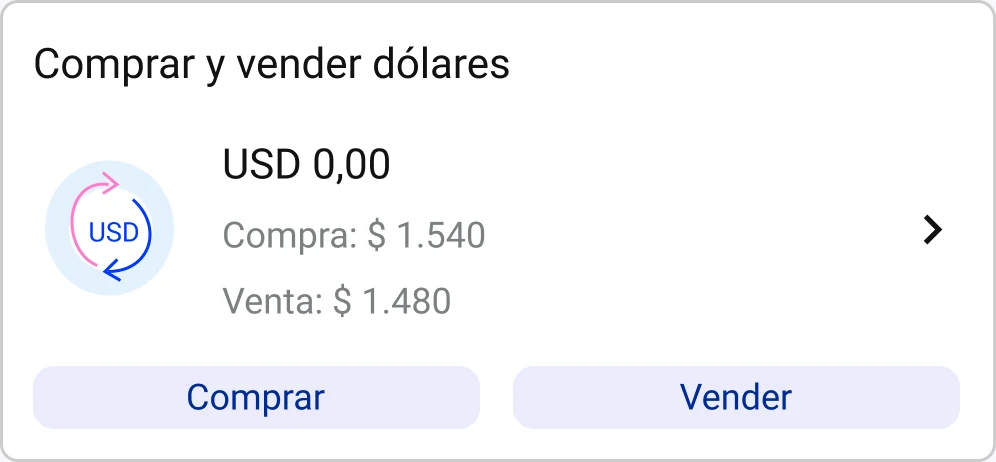
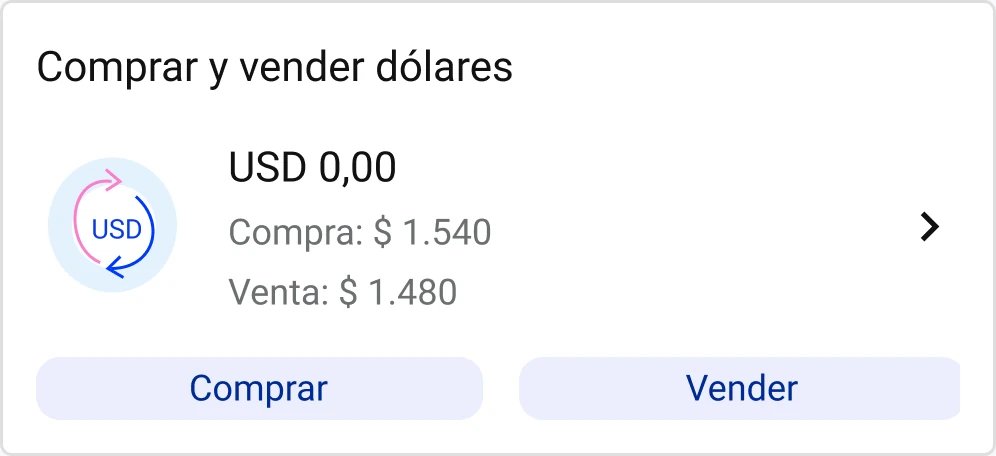
Intersticial de bienvenida con Motion, cards de Inversiones y numeración de Figma
- Intersticial al encender el prototipo (Figma frame 01), con entrada en cascada
- Cards de Inversiones reexportadas con textos y medidas actuales
- Atajos ?pantalla= alineados con la numeración 01–13 de Figma

diff --git a/src/screens/Intersticial.jsx b/src/screens/Intersticial.jsx
@@ -1,0 +1,82 @@
+import { useEffect, useRef } from 'react';
+import { motion } from 'framer-motion';
+import { Button } from '../components/ui.jsx';
+
+// Intersticial de bienvenida según Figma "Dialog" (99:24255, frame 01), 327 × 585.
+// Fondo (degradé, elipses y foto) exportado de Figma; textos, íconos y botones en código.
+// Posiciones en coordenadas del diseño (px dentro del diálogo) para respetarlo tal cual.
+// Tipografías del diseño: Titillium Web (título) e Inter (textos).
+const IMG = `${import.meta.env.BASE_URL}intersticial/`;
+const SPRING = { type: 'spring', stiffness: 320, damping: 30, mass: 0.9 };
+const OUT = [0.3, 0, 1, 1];
+const IN = [0, 0, 0, 1];
+
+// Entrada en cascada del contenido (después de que el diálogo se asienta).
+const item = (i) => ({
+  initial: { opacity: 0, y: 12 },
+  animate: { opacity: 1, y: 0, transition: { duration: 0.32, ease: IN, delay: 0.28 + i * 0.06 } },
+});
+
+const BENEFICIOS = [
+  ['ganancia', 'Calculá tu ganancia estimada'],
+  ['plazo', 'Elegí el plazo que prefieras'],
+  ['seguro', 'Simulá sin invertir tu dinero'],
+];
+
+export function Intersticial({ onClose, onSimular }) {
+  const ref = useRef(null);
+  useEffect(() => { ref.current?.focus(); }, []);
+  return (
+    // La raíz es motion para que AnimatePresence desmonte la capa al terminar la salida.
+    <motion.div
+      className="inter-layer" onKeyDown={(e) => { if (e.key === 'Escape') onClose(); }}
+      initial={{ opacity: 1 }} exit={{ opacity: 0, transition: { duration: 0.2, ease: OUT } }}
+    >
+      <motion.div
+        className="inter-scrim" onClick={onClose}
+        initial={{ opacity: 0 }} animate={{ opacity: 1, transition: { duration: 0.26, ease: IN } }}
+      />
+      <motion.div
+        ref={ref} tabIndex={-1} role="dialog" aria-modal="true" aria-labelledby="inter-titulo" aria-describedby="inter-desc"
+        className="inter-dialog"
+        initial={{ opacity: 0, y: 48, scale: 0.94 }}
+        animate={{ opacity: 1, y: 0, scale: 1, transition: { ...SPRING, opacity: { duration: 0.2, ease: IN } } }}
+        exit={{ opacity: 0, y: 24, scale: 0.98, transition: { duration: 0.18, ease: OUT } }}
+      >
+        <motion.img
+          className="inter-fondo" src={`${IMG}fondo.webp`} alt="" draggable={false}
+          initial={{ scale: 1.08 }} animate={{ scale: 1, transition: { duration: 0.9, ease: IN } }}
+        />
+
+        <motion.button
+          className="inter-cerrar" onClick={onClose} aria-label="Cerrar"
+          initial={{ opacity: 0, scale: 0.6 }} animate={{ opacity: 1, scale: 1, transition: { ...SPRING, delay: 0.35 } }}
+          whileTap={{ scale: 0.9 }}
+        >
+          <img src={`${IMG}cerrar.svg`} width="16" height="16" alt="" />
+        </motion.button>
+
+        <motion.h2 id="inter-titulo" className="inter-titulo" {...item(0)}>
+          Descubrí <span>cuánto podés ganar</span>
+        </motion.h2>
+        <motion.p id="inter-desc" className="inter-desc" {...item(1)}>
+          Simulá un Plazo Fijo y conocé el rendimiento estimado de tus ahorros antes de invertir.
+        </motion.p>
+
+        <ul className="inter-lista">
+          {BENEFICIOS.map(([icon, texto], i) => (
+            <motion.li key={icon} className="inter-item" style={{ top: 317 + i * 42 }} {...item(2 + i)}>
+              <span className="inter-icono"><img src={`${IMG}${icon}.svg`} width="24" height="24" alt="" /></span>
+              <span>{texto}</span>
+            </motion.li>
+          ))}
+        </ul>
+
+        <motion.div className="inter-acciones" {...item(6)}>
+          <Button onClick={onSimular}>Simular plazo fijo</Button>
+          <Button variant="secondary" onClick={onClose}>Ahora no</Button>
+        </motion.div>
+      </motion.div>
+    </motion.div>
+  );
+}

diff --git a/src/jumps.js b/src/jumps.js
@@ -3,17 +3,19 @@ const SIM = ['inicio', 'plazoFijo', 'elegirTipo', 'simular'];
 const base = { tipo: 'trad-ars', tipoDraft: 'trad-ars', montoTexto: '1000', dias: 30, montoTocado: true, escenario: { banco: 'ok', red: 'ok' } };
 
 export const JUMPS = [
-  ['Flujo principal', [
-    ['00', '00 · Inicio', { stack: ['inicio'], patch: {} }],
-    ['IN', 'Inversiones', { stack: ['inicio', 'inversiones'], patch: {} }],
-    ['01', '01 · Plazo fijo', { stack: ['inicio', 'plazoFijo'], patch: { montoTexto: '', dias: null, inversiones: [] } }],
-    ['02', '02 · Elegir tipo', { stack: ['inicio', 'plazoFijo', 'elegirTipo'], patch: { tipoDraft: null } }],
-    ['03', '03 · Simular (vacío)', { stack: SIM, patch: { ...base, montoTexto: '', dias: null, montoTocado: false } }],
-    ['05', '05 · Simular (resultado)', { stack: SIM, patch: base }],
-    ['06', '06 · Cambiar tipo (hoja)', { stack: SIM, patch: base, sheet: 'tipo' }],
-    ['07', '07 · Elegir cuenta', { stack: [...SIM, 'elegirCuenta'], patch: { ...base, cuenta: 'ca-3643' } }],
-    ['08', '08 · Revisar datos', { stack: [...SIM, 'elegirCuenta', 'revisar'], patch: { ...base, cuenta: 'ca-3643' } }],
-    ['09', '09 · Plazo fijo constituido', { stack: ['inicio', 'plazoFijo', 'resultado'], patch: { ...base, cuenta: 'ca-3643', resultado: 'ok', demoInversion: true } }],
+  ['Flujo principal (numeración de Figma)', [
+    ['01', '01 · Inicio · Intersticial de bienvenida', { stack: ['inicio'], patch: {}, sheet: 'intersticial' }],
+    ['02', '02 · Inicio', { stack: ['inicio'], patch: {} }],
+    ['03', '03 · Inversiones', { stack: ['inicio', 'inversiones'], patch: {} }],
+    ['04', '04 · Plazo fijo · Sin inversiones', { stack: ['inicio', 'plazoFijo'], patch: { montoTexto: '', dias: null, inversiones: [] } }],
+    ['05', '05 · Elegir tipo de plazo fijo', { stack: ['inicio', 'plazoFijo', 'elegirTipo'], patch: { tipoDraft: null } }],
+    ['06', '06 · Simular · Vacío', { stack: SIM, patch: { ...base, montoTexto: '', dias: null, montoTocado: false } }],
+    ['08', '08 · Simular · Resultado', { stack: SIM, patch: base }],
+    ['09', '09 · Cambiar tipo (hoja inferior)', { stack: SIM, patch: base, sheet: 'tipo' }],
+    ['10', '10 · Elegir cuenta', { stack: [...SIM, 'elegirCuenta'], patch: { ...base, cuenta: 'ca-3643' } }],
+    ['11', '11 · Revisar datos', { stack: [...SIM, 'elegirCuenta', 'revisar'], patch: { ...base, cuenta: 'ca-3643' } }],
+    ['12', '12 · Plazo fijo constituido', { stack: ['inicio', 'plazoFijo', 'resultado'], patch: { ...base, cuenta: 'ca-3643', resultado: 'ok', demoInversion: true } }],
+    ['13', '13 · Plazo fijo · Con inversiones', { stack: ['inicio', 'plazoFijo'], patch: { ...base, cuenta: 'ca-3643', resultado: 'ok', demoInversion: true } }],
   ]],
   ['Estados alternativos', [
     ['A', 'A · Monto menor al mínimo', { stack: SIM, patch: { ...base, montoTexto: '500', dias: null } }],

diff --git a/src/styles/app.css b/src/styles/app.css
@@ -314,3 +314,19 @@ button.home-service .home-img { width: 100%; }
 .tab-in { animation: tab-in 260ms cubic-bezier(0, 0, 0, 1) both; }
 @keyframes tab-in { from { opacity: 0; transform: scale(.98); } to { opacity: 1; transform: none; } }
 @media (prefers-reduced-motion: reduce) { .tab-in { animation: none; } .inv-content, .inv-skel { transition: none; } }
+
+/* ---------- Intersticial de bienvenida (Figma 99:23782) ---------- */
+.inter-layer { position: absolute; inset: 0; z-index: 30; display: grid; place-items: center; }
+.inter-scrim { position: absolute; inset: 0; background: var(--color-bg-scrim); }
+.inter-dialog { position: relative; width: 327px; height: 585px; border-radius: var(--radius-lg); overflow: hidden; outline: none; background: var(--color-bg-brand); box-shadow: var(--elevation-4); }
+.inter-fondo { position: absolute; inset: 0; width: 100%; height: 100%; transform-origin: 50% 0; pointer-events: none; }
+.inter-cerrar { position: absolute; left: 284px; top: 11px; width: 32px; height: 32px; border-radius: var(--radius-full); background: var(--color-bg-surface); display: grid; place-items: center; }
+.inter-cerrar::before { content: ''; position: absolute; inset: -8px; } /* área táctil de 48 dp */
+.inter-titulo { position: absolute; left: 29px; top: 153px; width: 304px; margin: 0; font-family: 'Titillium Web', var(--font-family-base, Roboto), sans-serif; font-weight: 700; font-size: 36px; line-height: 40px; color: var(--color-text-inverse); }
+.inter-titulo span { color: var(--color-icon-accent); }
+.inter-desc, .inter-item { font-family: 'Inter', Roboto, sans-serif; font-weight: 400; letter-spacing: .1px; color: var(--color-text-inverse); }
+.inter-desc { position: absolute; left: 29px; top: 241px; width: 304px; margin: 0; font-size: 16px; line-height: 20px; }
+.inter-lista { list-style: none; margin: 0; padding: 0; }
+.inter-item { position: absolute; left: 29px; width: 304px; height: 40px; display: flex; align-items: center; gap: 17px; font-size: 14px; line-height: 20px; }
+.inter-icono { width: 40px; height: 40px; display: grid; place-items: center; flex: none; }
+.inter-acciones { position: absolute; left: 21px; top: 457px; width: 285px; display: flex; flex-direction: column; gap: var(--spacing-xs); }

diff --git a/src/screens/Inversiones.jsx b/src/screens/Inversiones.jsx
@@ -13,9 +13,9 @@ const CARGA_MS = 1400;
 
 // Formas del esqueleto en coordenadas de Figma (px de la card de 332 de ancho).
 const ESQUELETOS = {
-  dolares: { h: 154, partes: [[11, 13, 150, 14], [11, 51, 52, 52, 'circ'], [79, 55, 70, 16], [79, 80, 90, 11], [79, 98, 90, 11], [11, 122, 149, 21], [171, 122, 149, 21]] },
-  plazo: { h: 141, partes: [[11, 13, 70, 14], [11, 44, 52, 52, 'circ'], [72, 56, 220, 11], [72, 74, 150, 11], [11, 109, 149, 21], [171, 109, 149, 21]] },
-  fondos: { h: 141, partes: [[11, 13, 100, 14], [11, 43, 54, 54, 'circ'], [74, 56, 218, 11], [74, 74, 120, 11], [11, 109, 309, 21]] },
+  dolares: { h: 152, partes: [[12, 13, 150, 14], [12, 50, 52, 52, 'circ'], [79, 54, 70, 16], [79, 79, 90, 11], [79, 97, 90, 11], [12, 119, 149, 21], [173, 119, 149, 21]] },
+  plazo: { h: 139, partes: [[12, 13, 70, 14], [12, 43, 52, 52, 'circ'], [72, 55, 220, 11], [72, 73, 150, 11], [12, 106, 149, 21], [173, 106, 149, 21]] },
+  fondos: { h: 139, partes: [[12, 13, 100, 14], [12, 42, 54, 54, 'circ'], [74, 55, 218, 11], [74, 73, 120, 11], [12, 106, 309, 21]] },
 };
 
 function Esqueleto({ forma }) {
@@ -63,10 +63,10 @@ export function Inversiones({ nav }) {
           <div
             className="inv-card inv-link" role="button" tabIndex={listo ? 0 : -1} onClick={abrirPlazoFijo}
             onKeyDown={(e) => { if (e.key === 'Enter' || e.key === ' ') { e.preventDefault(); abrirPlazoFijo(); } }}
-            aria-label="Plazo fijo. Hacé rendir tus ahorros, descubrí cuánto podrías ganar con un plazo fijo."
+            aria-label="Plazo fijo. Simulá un plazo fijo y conocé cuánto podrías ganar antes de invertir."
           >
             <img draggable={false} src={`${IMG}plazo-fijo.webp`} alt="" />
-            <button className="inv-hit" style={{ left: '3.31%', top: '77.3%', width: '44.88%', height: '14.9%' }} onClick={simular} tabIndex={listo ? 0 : -1}>
+            <button className="inv-hit" style={{ left: '3.61%', top: '76.26%', width: '44.88%', height: '15.11%' }} onClick={simular} tabIndex={listo ? 0 : -1}>
               <span className="sr-only">Simular</span>
             </button>
           </div>

diff --git a/src/screens/sheets.jsx b/src/screens/sheets.jsx
@@ -1,5 +1,6 @@
 import { useState } from 'react';
 import { AnimatePresence } from 'framer-motion';
+import { Intersticial } from './Intersticial.jsx';
 import { BottomSheet, Button, ListOption, Alert, DataRow, Card, Icon } from '../components/ui.jsx';
 import { TIPOS, dinero, fecha, fechaLarga, vencimiento, track } from '../logic.js';
 
@@ -7,6 +8,12 @@ export function Sheets({ s, set, nav }) {
   const close = nav.back;
   return (
     <>
+      <AnimatePresence>{s.sheet === 'intersticial' && (
+        <Intersticial key="intersticial" onClose={close} onSimular={() => {
+          track('pf_entry', { origen: 'intersticial' });
+          nav.goto(['inicio', 'plazoFijo', 'elegirTipo'], { tipoDraft: null });
+        }} />
+      )}</AnimatePresence>
       <AnimatePresence>{s.sheet === 'tipo' && (<BottomSheet key="tipo" title="¿Qué tipo de plazo fijo querés simular?" onClose={close}
         actions={<>
           <Button onClick={() => {

diff --git a/index.html b/index.html
@@ -14,7 +14,7 @@
     <link rel="apple-touch-icon" href="./icon-192.png" />
     <link rel="preconnect" href="https://fonts.googleapis.com" />
     <link rel="preconnect" href="https://fonts.gstatic.com" crossorigin />
-    <link href="https://fonts.googleapis.com/css2?family=Roboto:wght@400;500;700&display=swap" rel="stylesheet" />
+    <link href="https://fonts.googleapis.com/css2?family=Inter:wght@400&family=Roboto:wght@400;500;700&family=Titillium+Web:wght@700&display=swap" rel="stylesheet" />
     <title>Plazo fijo · Prototipo</title>
   </head>
   <body>

diff --git a/src/App.jsx b/src/App.jsx
@@ -99,6 +99,8 @@ export default function App() {
   useEffect(() => {
     const k = new URLSearchParams(location.search).get('pantalla');
     if (k) jump(k.toUpperCase());
+    // Intersticial de bienvenida al encender el prototipo (no al entrar directo a una pantalla).
+    else { const id = setTimeout(() => nav.sheet('intersticial'), 500); return () => clearTimeout(id); }
     // eslint-disable-next-line react-hooks/exhaustive-deps
   }, []);
 

diff --git a/README.md b/README.md
@@ -12,8 +12,8 @@
 - Forzar un modo: `?modo=nativo` o `?modo=telefono`.
 
 ## Ir directo a una pantalla
-Agregá `?pantalla=` al link: `00` (inicio), `01`, `02`, `03`, `05`, `06`, `07`, `08`, `09` (flujo) o `A`, `B`, `C`, `D` (estados).
-Ej.: `https://ricardofalcondev.github.io/prototipo-plazo-fijo/?pantalla=05`
+Agregá `?pantalla=` al link con el número del frame en Figma: `01` (intersticial), `02` (inicio), `03` (inversiones), `04`, `05`, `06`, `08`, `09`, `10`, `11`, `12`, `13` (flujo) o `A`, `B`, `C`, `D` (estados).
+Ej.: `https://ricardofalcondev.github.io/prototipo-plazo-fijo/?pantalla=08`
 
 ## Qué se puede probar
 - Simulación en vivo: tipo de plazo fijo, monto, plazo (30/60/90 o fecha personalizada) y resultado con ganancia, vencimiento (corrido a día hábil) y TNA.
